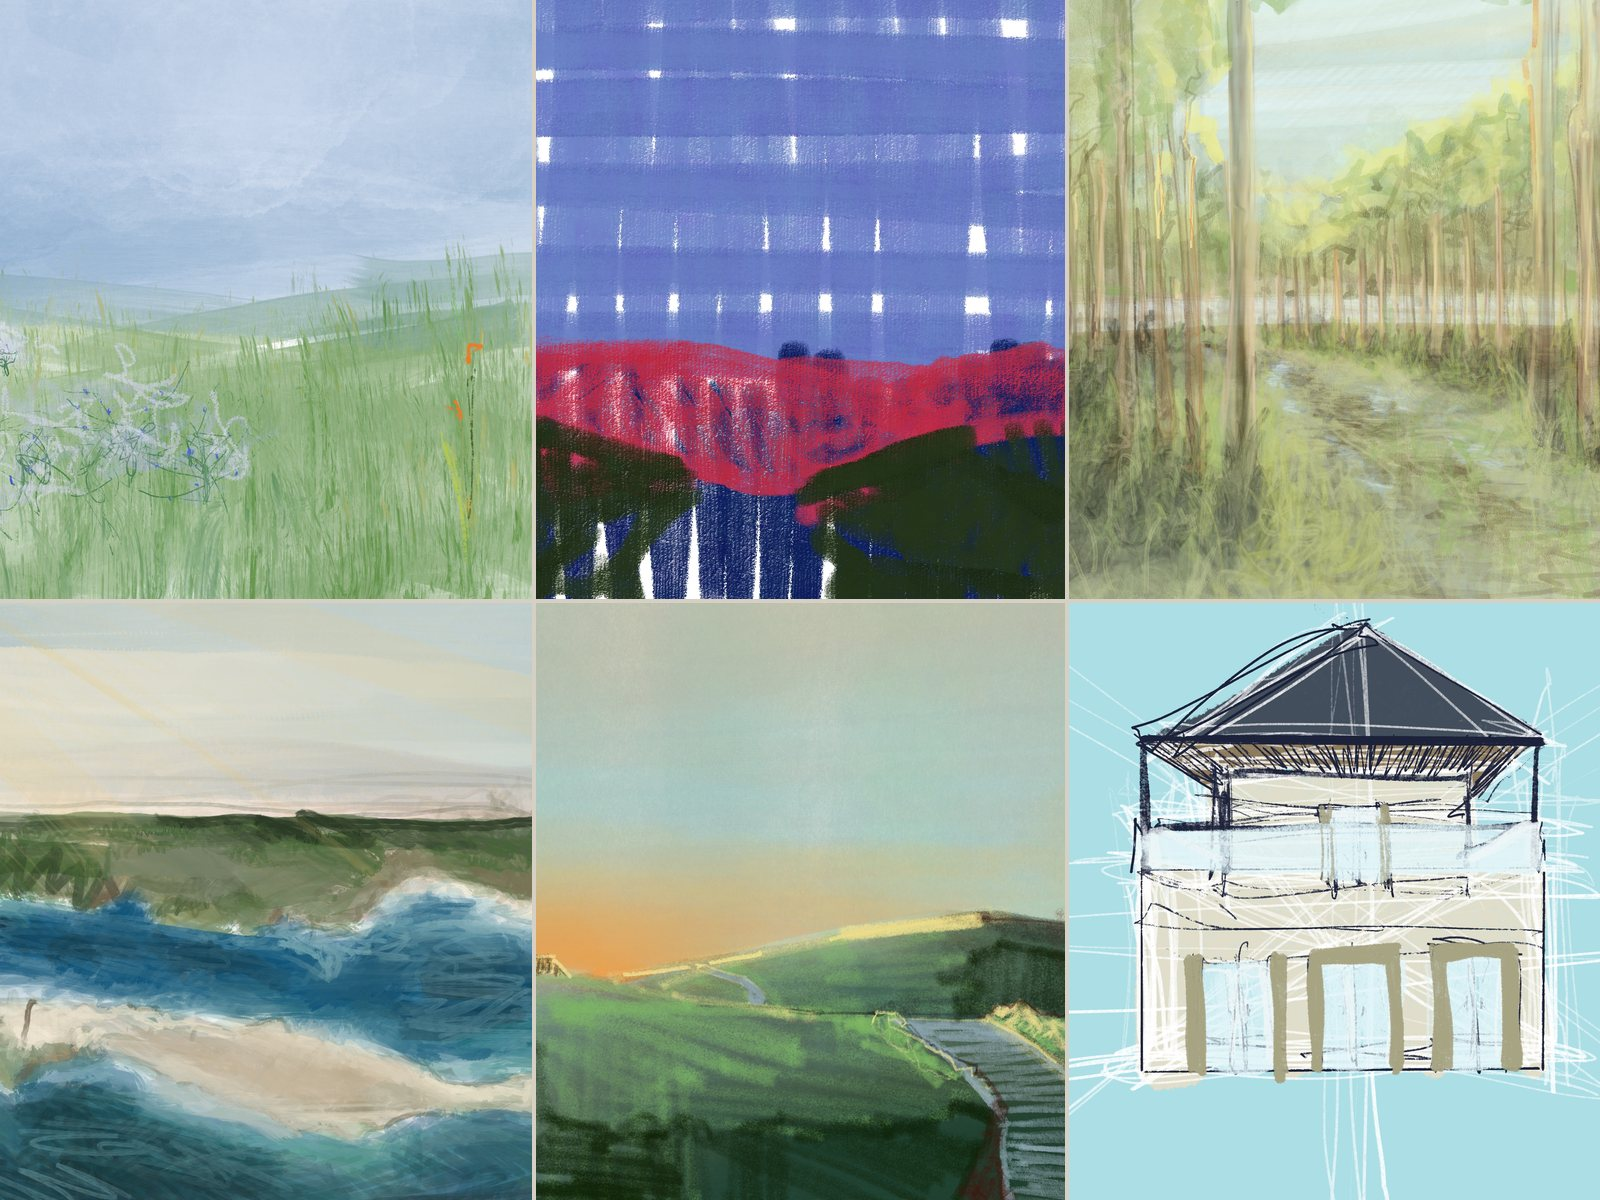
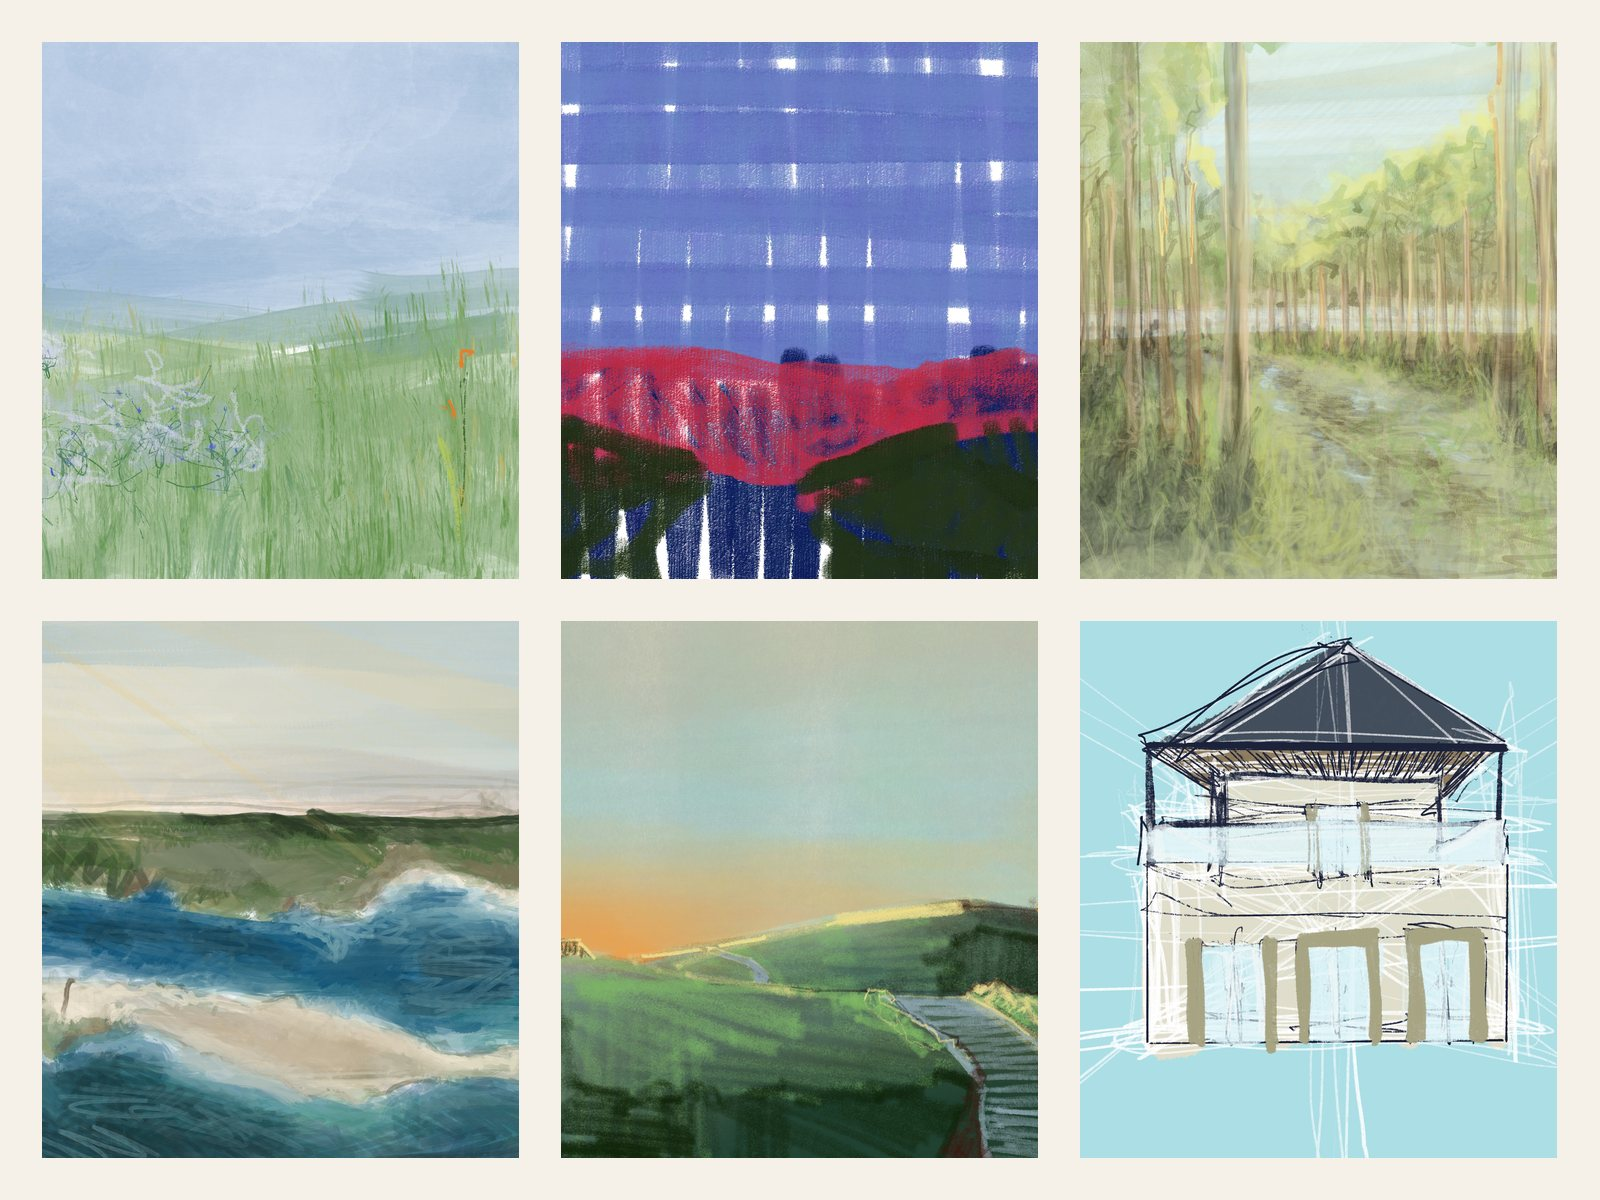
Expand digital painting galleries

diff --git a/index.html b/index.html
@@ -550,6 +550,71 @@
         color: var(--muted);
       }
 
+      .painting-subhead {
+        display: grid;
+        grid-template-columns: minmax(220px, 0.42fr) minmax(0, 1fr);
+        gap: 28px;
+        align-items: end;
+        margin: clamp(44px, 7vw, 88px) 0 22px;
+      }
+
+      .painting-subhead h3 {
+        margin-bottom: 0;
+        font-size: 2.4rem;
+      }
+
+      .painting-subhead p {
+        margin-bottom: 0;
+        color: var(--muted);
+      }
+
+      .landscape-gallery {
+        display: grid;
+        grid-template-columns: repeat(12, minmax(0, 1fr));
+        gap: clamp(22px, 4vw, 58px);
+      }
+
+      .landscape-piece {
+        grid-column: span 6;
+      }
+
+      .landscape-piece:nth-child(1),
+      .landscape-piece:nth-child(4) {
+        grid-column: span 5;
+      }
+
+      .landscape-piece:nth-child(2),
+      .landscape-piece:nth-child(3) {
+        grid-column: span 7;
+      }
+
+      .landscape-piece img {
+        width: 100%;
+        height: auto;
+        border: 1px solid var(--line);
+        border-radius: 8px;
+        background: var(--cream);
+        object-fit: contain;
+      }
+
+      .fragrance-grid {
+        display: grid;
+        grid-template-columns: repeat(6, minmax(0, 1fr));
+        gap: clamp(12px, 2vw, 28px);
+      }
+
+      .fragrance-tile {
+        aspect-ratio: 1;
+        overflow: hidden;
+        border: 1px solid var(--line);
+        border-radius: 8px;
+        background: var(--tile-bg, var(--cream));
+      }
+
+      .fragrance-tile img {
+        background: var(--tile-bg, var(--cream));
+      }
+
       .contact {
         display: grid;
         grid-template-columns: minmax(0, 0.8fr) minmax(280px, 0.42fr);
@@ -667,6 +732,10 @@
           grid-template-columns: repeat(2, minmax(0, 1fr));
         }
 
+        .fragrance-grid {
+          grid-template-columns: repeat(4, minmax(0, 1fr));
+        }
+
         .image-strip {
           grid-template-columns: 1fr 1fr;
         }
@@ -724,6 +793,7 @@
 
         .hero-meta,
         .section-head,
+        .painting-subhead,
         .filters,
         .contact {
           grid-template-columns: 1fr;
@@ -746,6 +816,18 @@
 
         .painting-showcase::after {
           background: rgba(23, 23, 23, 0.58);
+        }
+
+        .landscape-piece,
+        .landscape-piece:nth-child(1),
+        .landscape-piece:nth-child(2),
+        .landscape-piece:nth-child(3),
+        .landscape-piece:nth-child(4) {
+          grid-column: span 12;
+        }
+
+        .fragrance-grid {
+          grid-template-columns: repeat(2, minmax(0, 1fr));
         }
 
         .strip-image,
@@ -1208,6 +1290,164 @@
                 </p>
               </div>
             </article>
+          </div>
+
+          <div class="painting-subhead">
+            <div>
+              <p class="section-kicker">Landscape Studies</p>
+              <h3>Open space and atmosphere</h3>
+            </div>
+            <p>
+              The landscape pieces are shown larger here, with more room between
+              each image so the color, horizon, and brushwork can carry the page.
+            </p>
+          </div>
+
+          <div class="landscape-gallery" aria-label="Digital landscape paintings">
+            <div class="landscape-piece">
+              <img
+                src="assets/portfolio/images/digital-paintings/landscape-meadow.jpg"
+                alt="Soft green meadow digital painting with pale sky and field grasses."
+              >
+            </div>
+            <div class="landscape-piece">
+              <img
+                src="assets/portfolio/images/digital-paintings/landscape-night-hills.jpg"
+                alt="Digital landscape painting with blue night grid lights and red hills."
+              >
+            </div>
+            <div class="landscape-piece">
+              <img
+                src="assets/portfolio/images/digital-paintings/landscape-forest-path.jpg"
+                alt="Digital painting of a pale forest path surrounded by tall trees."
+              >
+            </div>
+            <div class="landscape-piece">
+              <img
+                src="assets/portfolio/images/digital-paintings/landscape-coast.jpg"
+                alt="Digital painting of blue water, shoreline, and distant green hills."
+              >
+            </div>
+            <div class="landscape-piece">
+              <img
+                src="assets/portfolio/images/digital-paintings/landscape-hill-path.jpg"
+                alt="Digital painting of a green hill path under a warm pale sky."
+              >
+            </div>
+            <div class="landscape-piece">
+              <img
+                src="assets/portfolio/images/digital-paintings/landscape-structure.jpg"
+                alt="Digital architectural landscape painting of a light blue structure."
+              >
+            </div>
+          </div>
+
+          <div class="painting-subhead">
+            <div>
+              <p class="section-kicker">Fragrance Bottles</p>
+              <h3>Square color-field studies</h3>
+            </div>
+            <p>
+              Each bottle sits in a square filled with its sampled source
+              background color, scaled around the subject and aligned to a shared
+              bottom margin.
+            </p>
+          </div>
+
+          <div class="fragrance-grid" aria-label="Fragrance bottle digital painting studies">
+            <div class="fragrance-tile" style="--tile-bg: #52112f;">
+              <img src="assets/portfolio/images/digital-paintings/fragrance-bottles/sheer-yellow.jpg" alt="Sheer yellow fragrance bottle study on burgundy background.">
+            </div>
+            <div class="fragrance-tile" style="--tile-bg: #c6b5a3;">
+              <img src="assets/portfolio/images/digital-paintings/fragrance-bottles/amber-low-bottle.jpg" alt="Low amber fragrance bottle study on taupe background.">
+            </div>
+            <div class="fragrance-tile" style="--tile-bg: #ded7de;">
+              <img src="assets/portfolio/images/digital-paintings/fragrance-bottles/faceted-bottle.jpg" alt="Faceted fragrance bottle study on pale lavender background.">
+            </div>
+            <div class="fragrance-tile" style="--tile-bg: #e8e5c6;">
+              <img src="assets/portfolio/images/digital-paintings/fragrance-bottles/green-cap-bottle.jpg" alt="Green-capped fragrance bottle study on pale yellow background.">
+            </div>
+            <div class="fragrance-tile" style="--tile-bg: #f2ebd9;">
+              <img src="assets/portfolio/images/digital-paintings/fragrance-bottles/blue-cap-sketch.jpg" alt="Blue cap fragrance bottle sketch on warm paper background.">
+            </div>
+            <div class="fragrance-tile" style="--tile-bg: #ffffff;">
+              <img src="assets/portfolio/images/digital-paintings/fragrance-bottles/outline-bottle.jpg" alt="Outline fragrance bottle sketch on white background.">
+            </div>
+            <div class="fragrance-tile" style="--tile-bg: #a2ad8d;">
+              <img src="assets/portfolio/images/digital-paintings/fragrance-bottles/soft-amber-bottle.jpg" alt="Soft amber fragrance bottle study on sage background.">
+            </div>
+            <div class="fragrance-tile" style="--tile-bg: #998699;">
+              <img src="assets/portfolio/images/digital-paintings/fragrance-bottles/tall-lilac-bottle.jpg" alt="Tall lilac fragrance bottle study on muted purple background.">
+            </div>
+            <div class="fragrance-tile" style="--tile-bg: #ffffff;">
+              <img src="assets/portfolio/images/digital-paintings/fragrance-bottles/thin-outline-bottle.jpg" alt="Thin outline fragrance bottle sketch on white background.">
+            </div>
+            <div class="fragrance-tile" style="--tile-bg: #887a33;">
+              <img src="assets/portfolio/images/digital-paintings/fragrance-bottles/lace-bottle.jpg" alt="Dark lace fragrance bottle study on olive background.">
+            </div>
+            <div class="fragrance-tile" style="--tile-bg: #d3f0f4;">
+              <img src="assets/portfolio/images/digital-paintings/fragrance-bottles/brown-bottle.jpg" alt="Brown fragrance bottle study on pale blue background.">
+            </div>
+            <div class="fragrance-tile" style="--tile-bg: #afafbb;">
+              <img src="assets/portfolio/images/digital-paintings/fragrance-bottles/block-bottle.jpg" alt="Blocky fragrance bottle study on gray lavender background.">
+            </div>
+            <div class="fragrance-tile" style="--tile-bg: #b7afa4;">
+              <img src="assets/portfolio/images/digital-paintings/fragrance-bottles/green-rect-bottle.jpg" alt="Green rectangular fragrance bottle study on gray taupe background.">
+            </div>
+            <div class="fragrance-tile" style="--tile-bg: #ffffff;">
+              <img src="assets/portfolio/images/digital-paintings/fragrance-bottles/striped-bottle.jpg" alt="Striped green fragrance bottle study on white background.">
+            </div>
+            <div class="fragrance-tile" style="--tile-bg: #ff8d44;">
+              <img src="assets/portfolio/images/digital-paintings/fragrance-bottles/stacked-orange-bottle.jpg" alt="Stacked fragrance bottle study on orange background.">
+            </div>
+            <div class="fragrance-tile" style="--tile-bg: #ff8d44;">
+              <img src="assets/portfolio/images/digital-paintings/fragrance-bottles/orange-bottle.jpg" alt="Low fragrance bottle study on orange background.">
+            </div>
+            <div class="fragrance-tile" style="--tile-bg: #ffffff;">
+              <img src="assets/portfolio/images/digital-paintings/fragrance-bottles/oval-sketch-bottle.jpg" alt="Oval fragrance bottle sketch on white background.">
+            </div>
+            <div class="fragrance-tile" style="--tile-bg: #ffffff;">
+              <img src="assets/portfolio/images/digital-paintings/fragrance-bottles/profile-sketch-bottle.jpg" alt="Profile fragrance bottle sketch on white background.">
+            </div>
+            <div class="fragrance-tile" style="--tile-bg: #ffffff;">
+              <img src="assets/portfolio/images/digital-paintings/fragrance-bottles/spiral-sketch-bottle.jpg" alt="Spiral fragrance bottle sketch on white background.">
+            </div>
+            <div class="fragrance-tile" style="--tile-bg: #cc4b61;">
+              <img src="assets/portfolio/images/digital-paintings/fragrance-bottles/pink-ground-bottle.jpg" alt="Small fragrance bottle study on pink background.">
+            </div>
+            <div class="fragrance-tile" style="--tile-bg: #85c034;">
+              <img src="assets/portfolio/images/digital-paintings/fragrance-bottles/green-ground-bottle.jpg" alt="Green fragrance bottle study on bright green background.">
+            </div>
+            <div class="fragrance-tile" style="--tile-bg: #ffffff;">
+              <img src="assets/portfolio/images/digital-paintings/fragrance-bottles/label-bottle.jpg" alt="Labeled fragrance bottle study on white background.">
+            </div>
+            <div class="fragrance-tile" style="--tile-bg: #ffffff;">
+              <img src="assets/portfolio/images/digital-paintings/fragrance-bottles/wireframe-bottle.jpg" alt="Wireframe fragrance bottle sketch on white background.">
+            </div>
+            <div class="fragrance-tile" style="--tile-bg: #ffffff;">
+              <img src="assets/portfolio/images/digital-paintings/fragrance-bottles/blue-rect-bottle.jpg" alt="Blue rectangular fragrance bottle study on white background.">
+            </div>
+            <div class="fragrance-tile" style="--tile-bg: #ffffff;">
+              <img src="assets/portfolio/images/digital-paintings/fragrance-bottles/blue-round-bottle.jpg" alt="Blue round fragrance bottle study on white background.">
+            </div>
+            <div class="fragrance-tile" style="--tile-bg: #273244;">
+              <img src="assets/portfolio/images/digital-paintings/fragrance-bottles/dark-ground-bottle.jpg" alt="Faceted fragrance bottle study on dark blue background.">
+            </div>
+            <div class="fragrance-tile" style="--tile-bg: #ffffff;">
+              <img src="assets/portfolio/images/digital-paintings/fragrance-bottles/yellow-line-bottle.jpg" alt="Pale yellow line fragrance bottle sketch on white background.">
+            </div>
+            <div class="fragrance-tile" style="--tile-bg: #152508;">
+              <img src="assets/portfolio/images/digital-paintings/fragrance-bottles/tall-green-bottle.jpg" alt="Tall green fragrance bottle study on dark green background.">
+            </div>
+            <div class="fragrance-tile" style="--tile-bg: #6bc1b6;">
+              <img src="assets/portfolio/images/digital-paintings/fragrance-bottles/teal-nozzle-bottle.jpg" alt="Nozzle fragrance bottle study on teal background.">
+            </div>
+            <div class="fragrance-tile" style="--tile-bg: #ff5c5d;">
+              <img src="assets/portfolio/images/digital-paintings/fragrance-bottles/coral-nozzle-bottle.jpg" alt="Nozzle fragrance bottle study on coral background.">
+            </div>
+            <div class="fragrance-tile" style="--tile-bg: #ffffff;">
+              <img src="assets/portfolio/images/digital-paintings/fragrance-bottles/blue-green-bottle.jpg" alt="Blue-green fragrance bottle study on white background.">
+            </div>
           </div>
         </div>
       </section>
